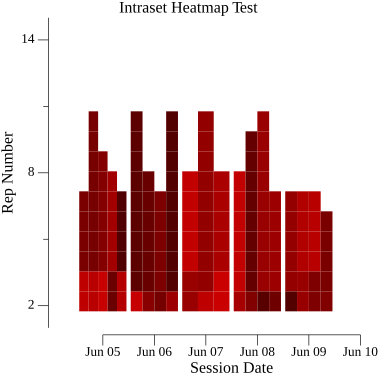
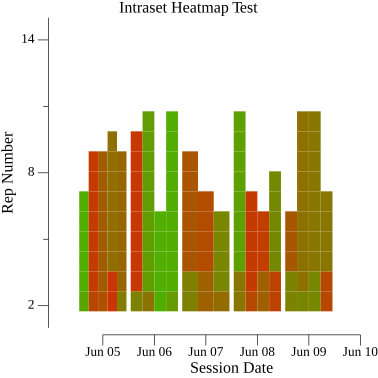
Fix color interpolation in heatmap; update green channel calculation

Changed region(s): [[0.2037, 0.291, 0.9021, 0.8439]]

diff --git a/intraset_heatmap/intraset_heatmap.go b/intraset_heatmap/intraset_heatmap.go
@@ -80,7 +80,7 @@ func (i *IntrasetHeatmap) ColorInterpolation(weight, maxIntensity, minIntensity 
 
 	color := color.RGBA{
 		R: uint8(255-intensity),
-		G: 0 ,
+		G: uint8(intensity) ,
 		B: 0, 
 		A: 255, 
 	}
